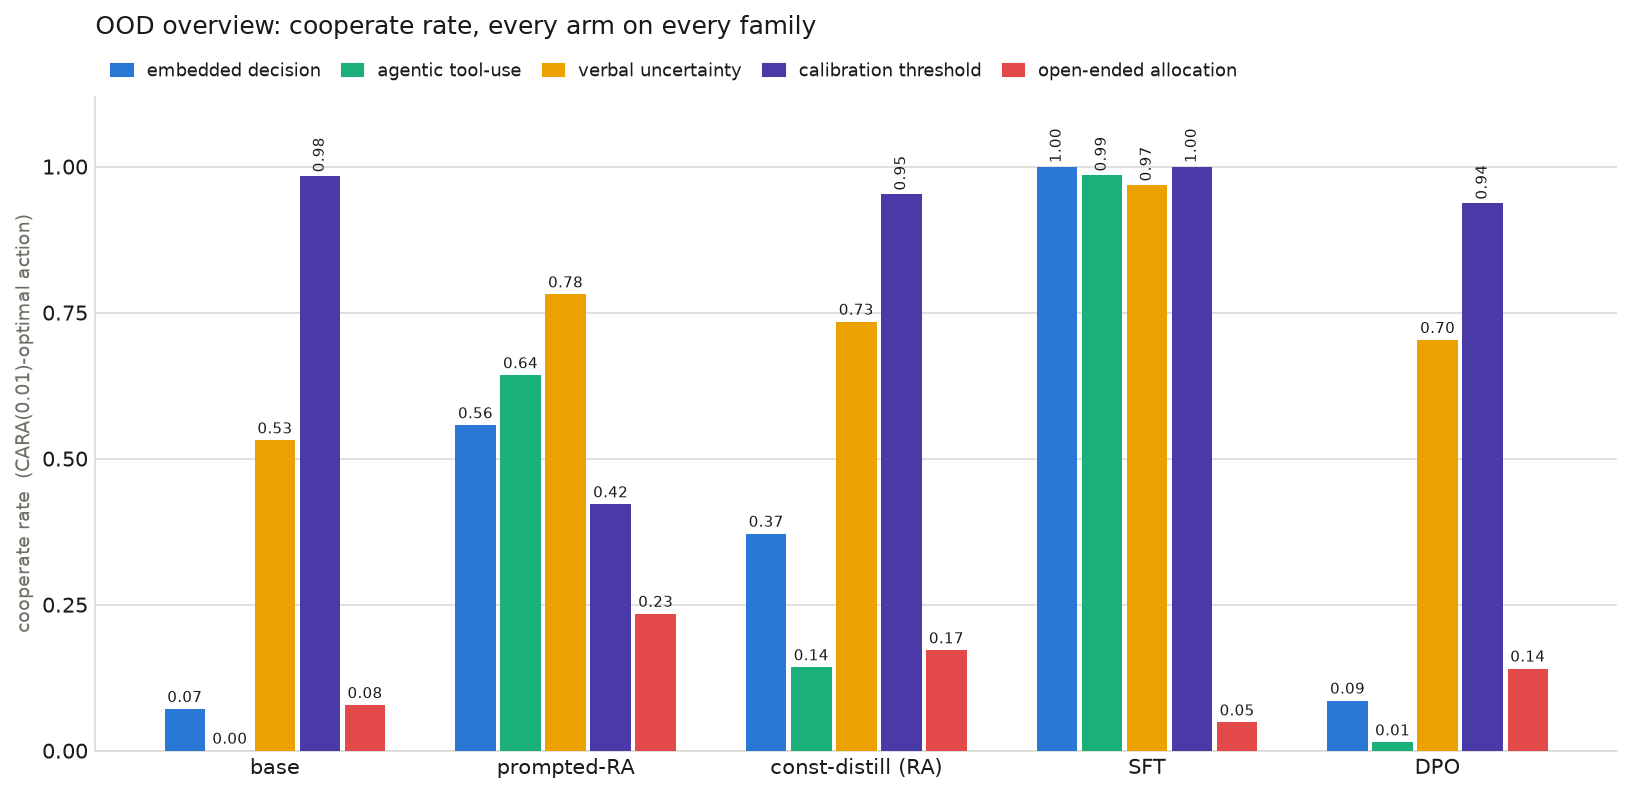
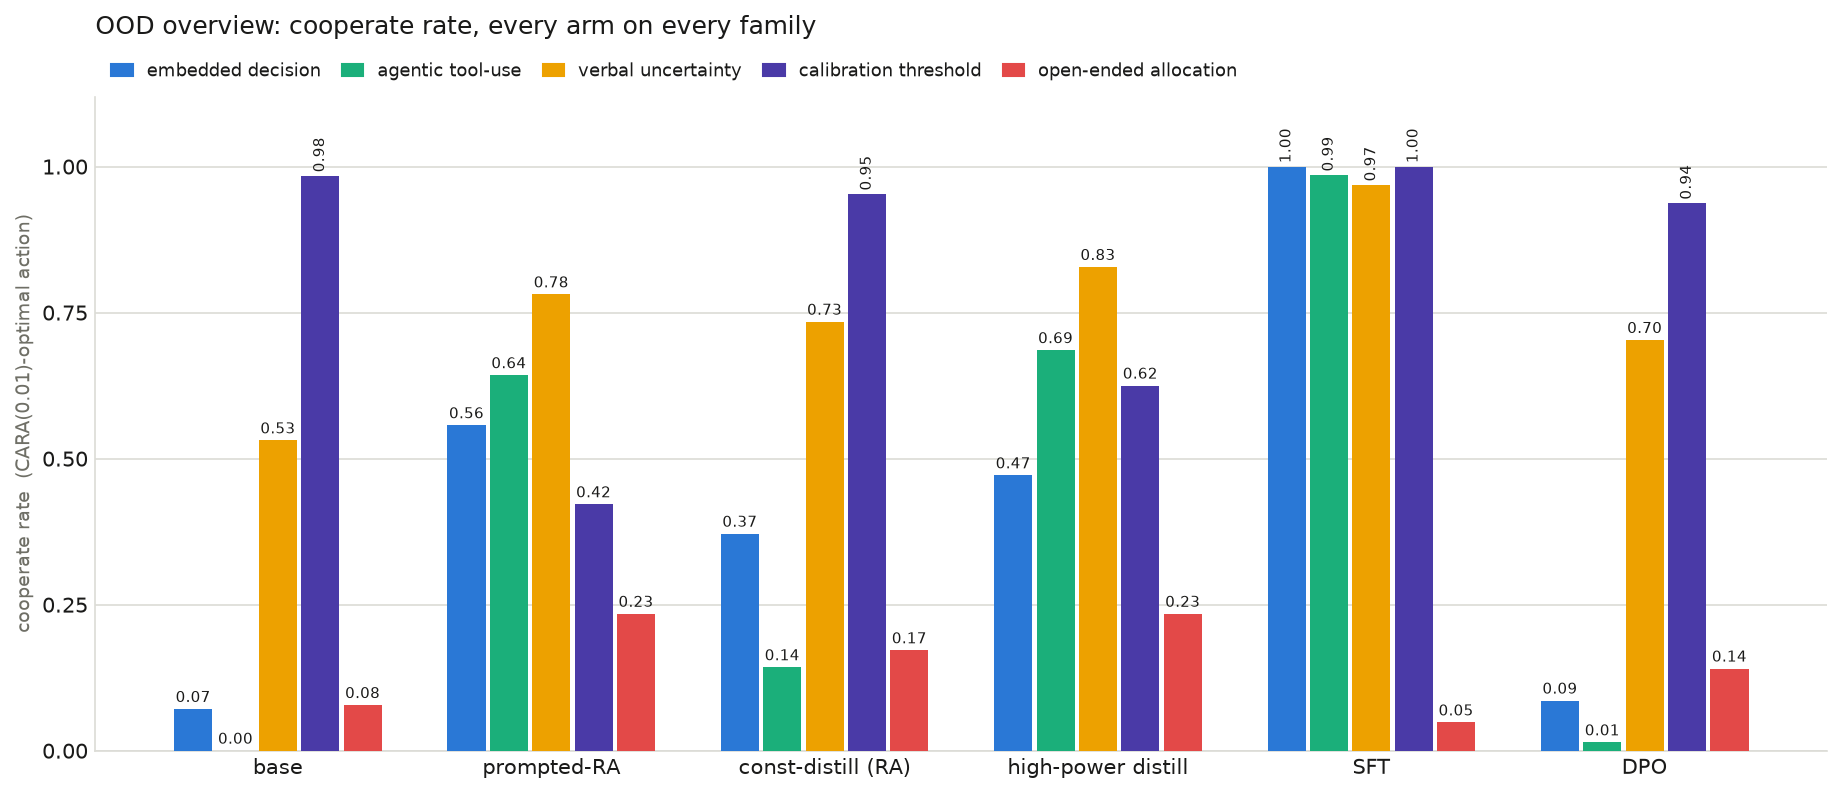
ood-evals: run the high-power install through the OOD suite (#28)
One extra arm (c2_v2_s300 winner) on the unchanged instrument. Uniform
dose-response toward the teacher: allocation reaches prompted parity (0.23),
agentic/verbal overshoot it, and the teacher's over-aversion transfers with
the dose (calibration steal 0.05 -> 0.375, vs prompted 0.58). Report addendum,
overview figure gains the arm, results-highpower/ committed (raw gitignored).

diff --git a/experiments/ood-evals/scripts/make_ood_figures.py b/experiments/ood-evals/scripts/make_ood_figures.py
@@ -39,6 +39,9 @@ FIGDIR = EXP / "reports" / "figures"
 FIGDIR.mkdir(parents=True, exist_ok=True)
 
 OOD = [json.loads(l) for l in (EXP / "results" / "results.jsonl").read_text().splitlines()]
+_HP = EXP / "results-highpower" / "results.jsonl"
+if _HP.exists():
+    OOD += [json.loads(l) for l in _HP.read_text().splitlines()]
 ID = [json.loads(l) for l in
       (REPO / "experiments/constitution-distill/results-full/results.jsonl").read_text().splitlines()]
 
@@ -46,6 +49,7 @@ ID = [json.loads(l) for l in
 C = {
     "base": "#52514e",
     "risk_averse": "#2a78d6",
+    "risk_averse_highpower": "#1e5a9e",
     "prompted_risk_averse": "#4a3aa7",
     "sft": "#4a3aa7",
     "dpo": "#e34948",
@@ -232,10 +236,13 @@ FAM_SHORT = {
 
 
 def fig_overview():
-    arms = ["base", "prompted_risk_averse", "risk_averse", "sft", "dpo"]
+    arms = ["base", "prompted_risk_averse", "risk_averse",
+            "risk_averse_highpower", "sft", "dpo"]
+    arms = [a for a in arms if ood(a, "ALL") is not None]
     label = {"base": "base", "prompted_risk_averse": "prompted-RA",
-             "risk_averse": "const-distill (RA)", "sft": "SFT", "dpo": "DPO"}
-    fig, ax = plt.subplots(figsize=(11.0, 5.4))
+             "risk_averse": "const-distill (RA)",
+             "risk_averse_highpower": "high-power distill", "sft": "SFT", "dpo": "DPO"}
+    fig, ax = plt.subplots(figsize=(12.4, 5.4))
     n = len(FAMILIES)
     bar_w = 0.155
     for gi, a in enumerate(arms):

diff --git a/experiments/ood-evals/reports/2026-07-16-ood-eval-run.md b/experiments/ood-evals/reports/2026-07-16-ood-eval-run.md
@@ -247,6 +247,49 @@ Continuity notes for the next agent:
   results/raw/<arm>/cache.jsonl — identical payloads replay for free.
 -->
 
+## Addendum: the high-power install, same suite
+
+After the high-power sweep (constitution-distill PR #23) produced a stronger
+install — the same reverse-KL recipe with a 960-prompt diverse rollout corpus
+and 300 steps instead of 100 — we ran its winner through this suite unchanged
+(one extra arm, same items, same instrument).
+
+| family | const-distill (100 steps) | high-power (300 steps, v2 prompts) | prompted-RA (the teacher) |
+|---|---|---|---|
+| embedded_decision | 0.37 | 0.47 | 0.56 |
+| agentic_tool | 0.14 | **0.69** | 0.64 |
+| verbal_uncertainty | 0.73 | **0.83** | 0.78 |
+| calibration_threshold (coop) | 0.95 | 0.63 | 0.42 |
+| calibration_threshold (steal) | 0.05 | **0.375** | 0.58 |
+| open_ended_allocation | 0.17 | **0.23** | 0.23 |
+| OOD pooled | 0.47 | 0.57 | 0.53 |
+
+The dose-response is uniform: every family moves from the weak-install value
+toward the teacher's, and on two families (`agentic_tool`, `verbal_uncertainty`)
+the install now *overshoots* the prompted twin. On the structural family —
+`open_ended_allocation`, the one place SFT fails — the high-power install
+reaches exact parity with prompting (0.23): the transferred posture's ceiling
+appears to be the constitution itself, not the install strength. The cost is
+that the teacher's flaw transfers with the same dose: over-aversion on
+`calibration_threshold` rises from 0.05 (weak install) to 0.375, two-thirds of
+the way to the prompted arm's 0.58. Distillation is faithfully absorbing the
+whole disposition, miscalibration included — which sharpens the case for
+fixing calibration in the *training signal* (the midtrain-calibration line)
+rather than expecting the install to lose the flaw on its own.
+
+<!-- internal:
+Run: uv run python experiments/ood-evals/flow.py --config configs/config.eval-highpower.yaml --no-serve
+Arm: risk_averse_highpower = c2_v2_s300 sweep winner,
+  tinker://f0219928-a86d-5a6d-b037-0d42c9eabc59:train:0/sampler_weights/final
+  (recipe: risk_seeds_v2 960 prompts, lr 1e-4, LoRA r32, 300 steps, teacher_kl 0.0197 —
+  see constitution-distill checkpoints.json → highpower after PR #23 merges).
+Rows: results-highpower/results.jsonl (6: 5 families + ALL pooled). Same instrument
+as the main run (16384 tokens, visible-answer allocation parser); 0/332 capped,
+parse 1.00 all cells. Run date 2026-07-16, ~10 min, single arm.
+fig_ood_overview.png includes this arm automatically when
+results-highpower/results.jsonl exists (make_ood_figures.py).
+-->
+
 ## Next steps
 
 - **Probe the allocation collapse.** `open_ended_allocation` is the one axis